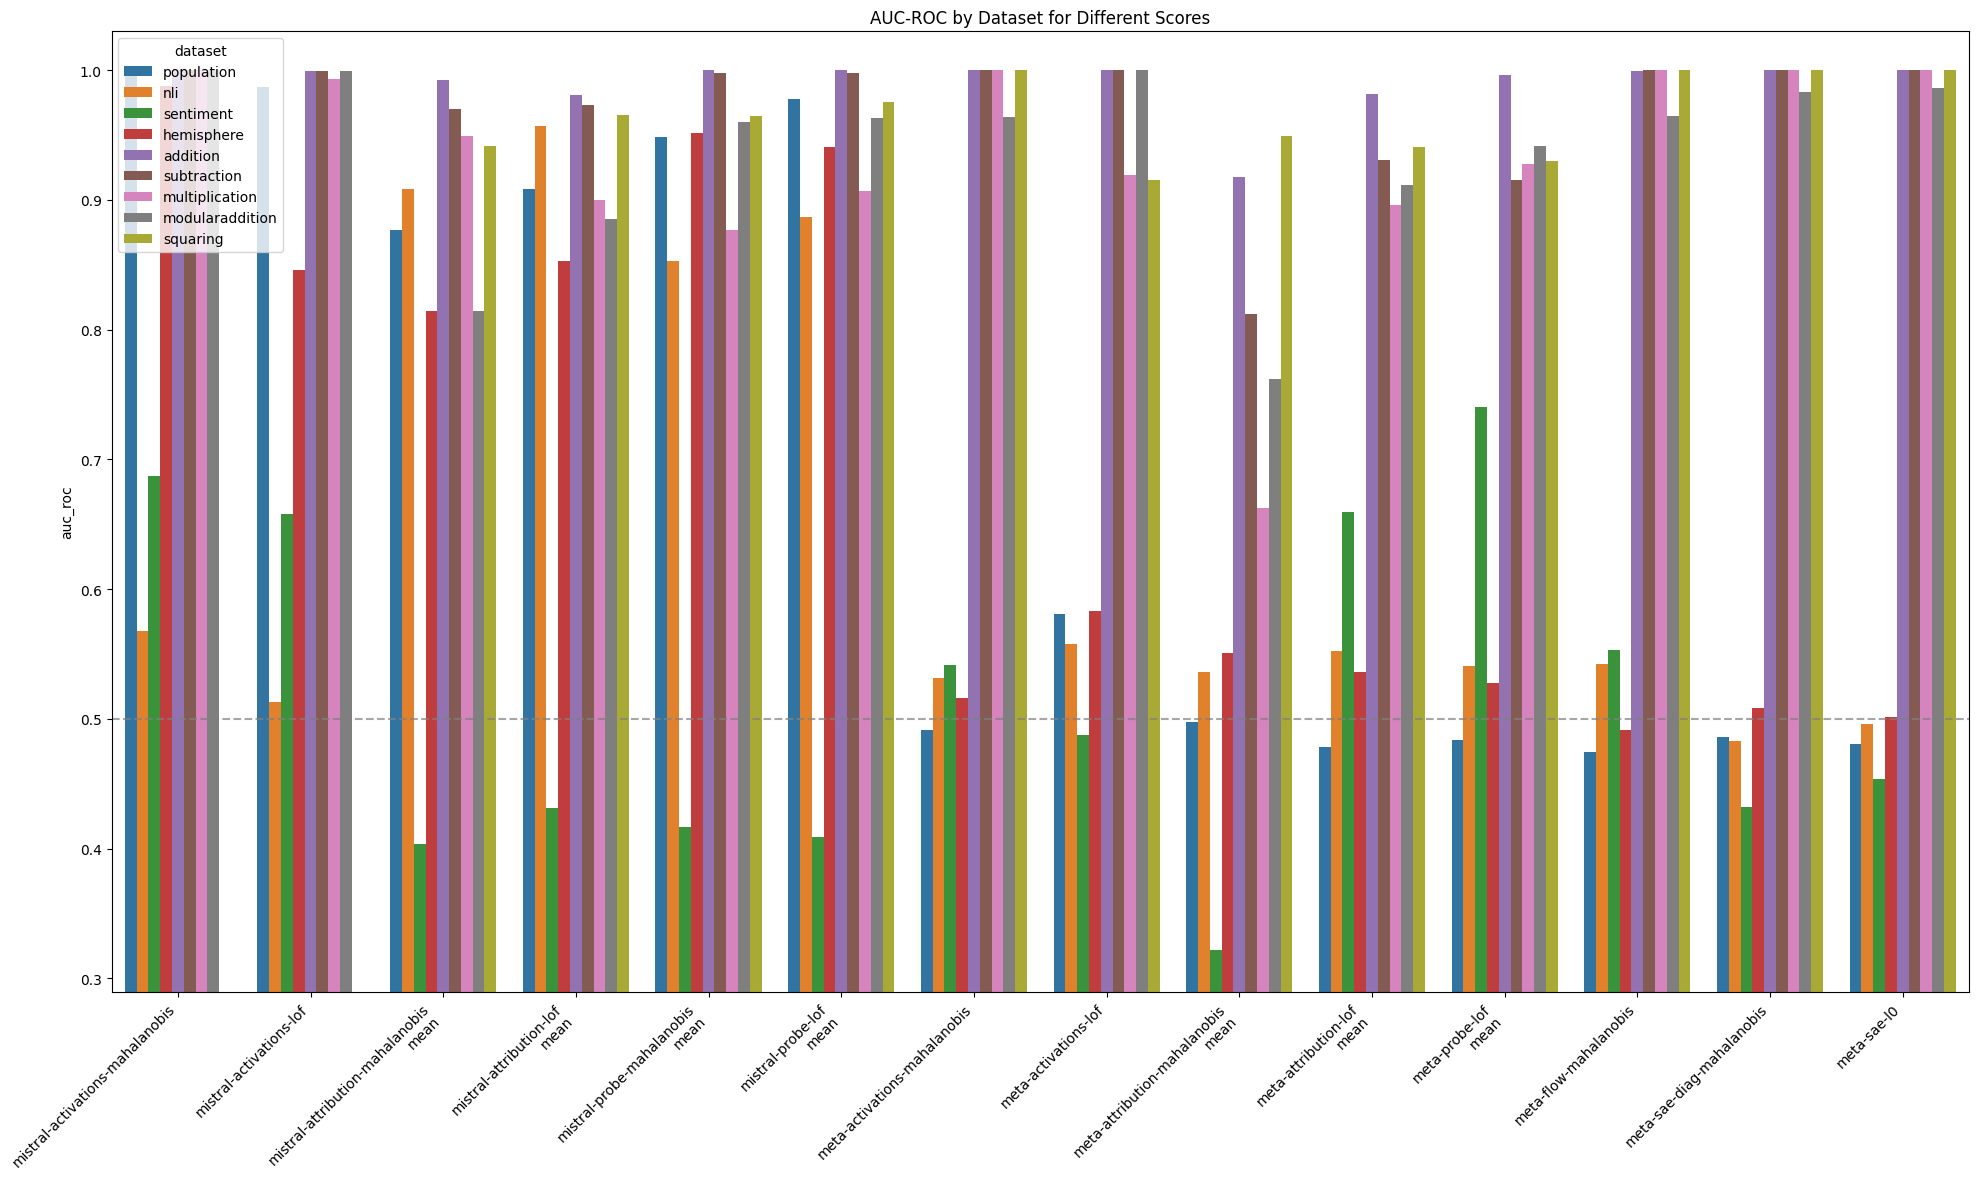
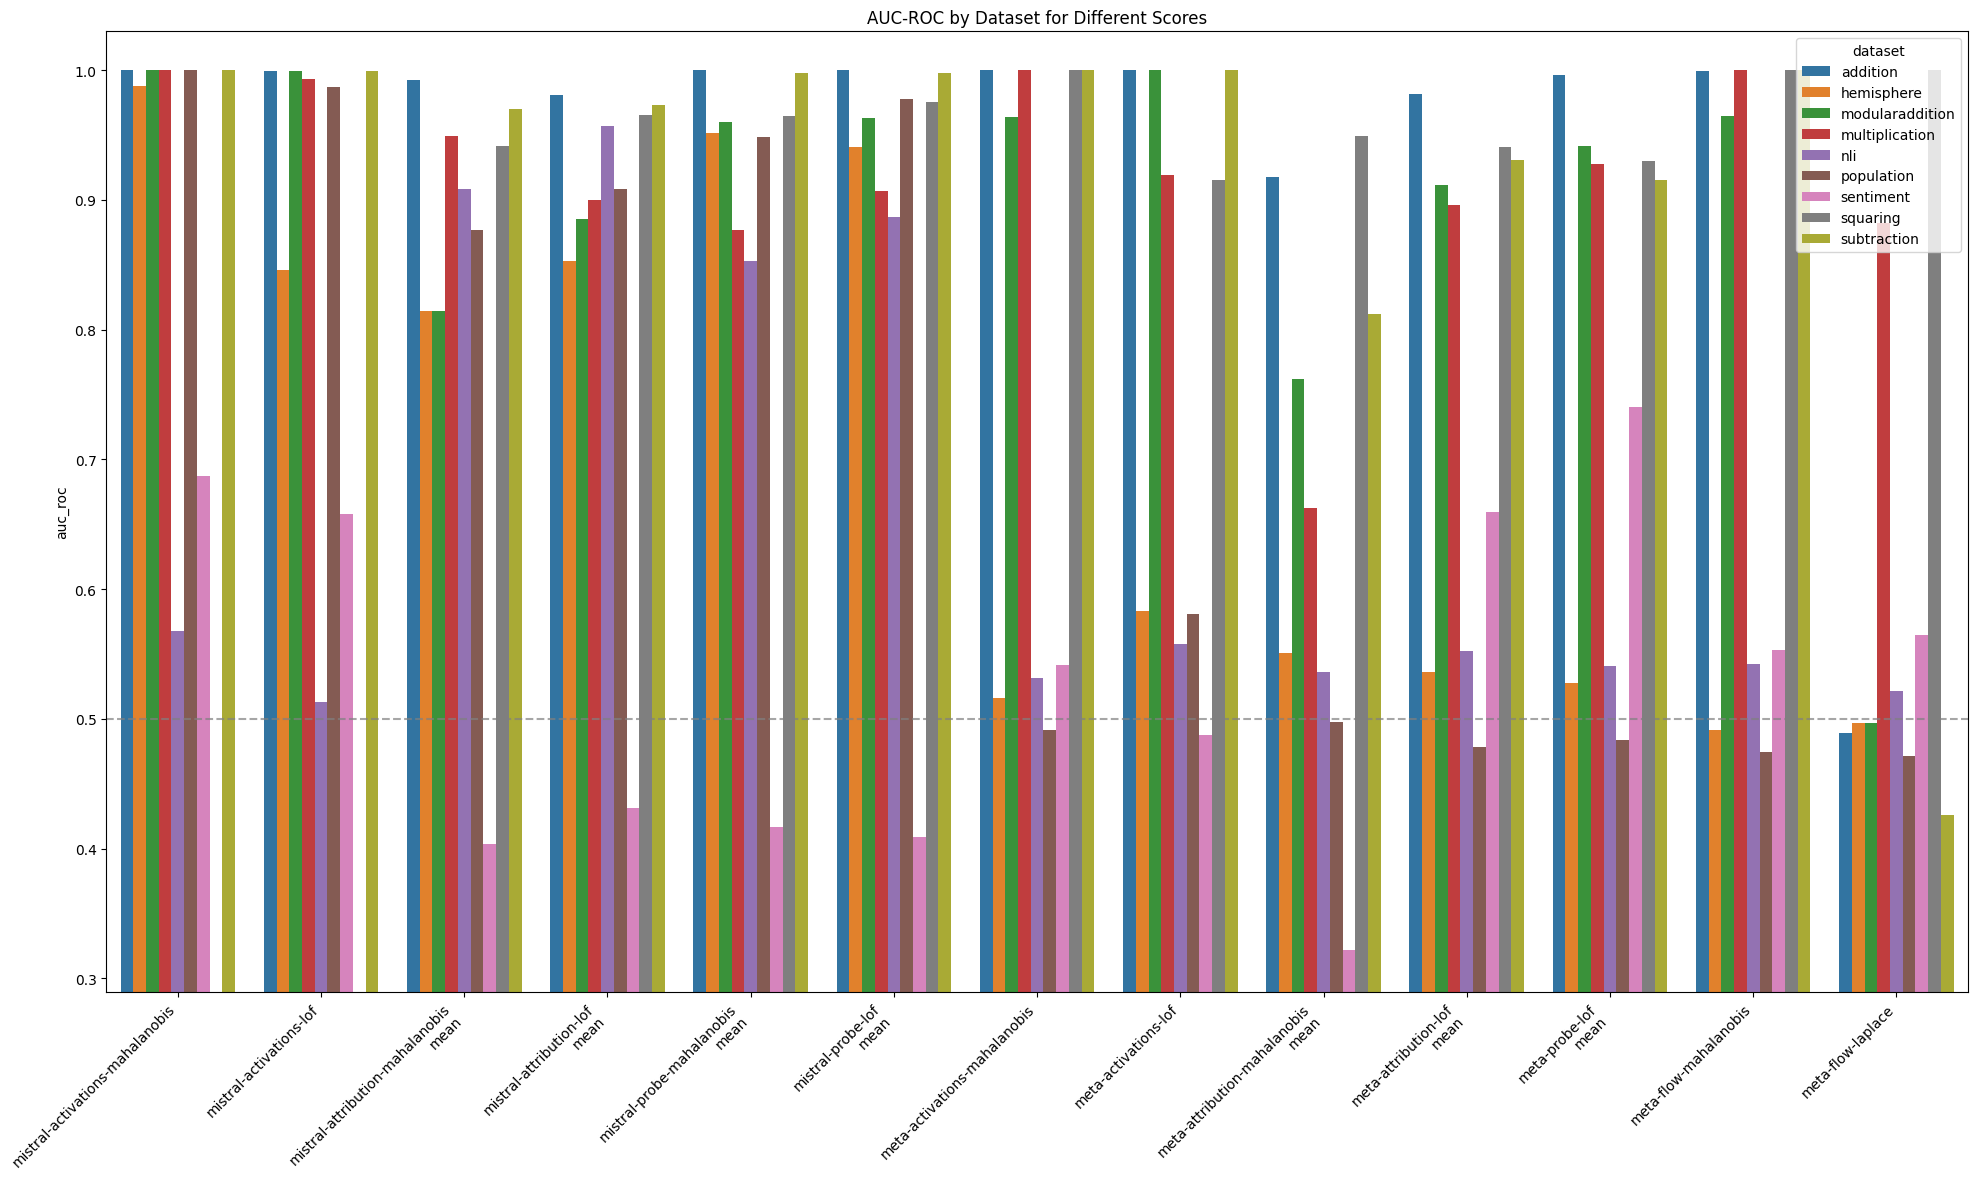
laplace score and separation explanation

diff --git a/content-blog/mad_research_update_2.md b/content-blog/mad_research_update_2.md
@@ -72,7 +72,10 @@ Figures 7 and 8 compare the average loss of both models against both the correct
 
 #### Comparing activation separation for Llama and Mistral
 
-A hypothesis arising from Figures 3 and 4 is that perhaps the lower separation in logits observed in Llama on non-arithmetic tasks corresponds to lower separation in the hidden states, which might explain the poor performance of anomaly detection methods on Llama. We found that the ratio of the distance between Alice's and Bob's centroids to the total variance of the hidden states explained MAD performance using the Mahalanobis distance very well (figure 9), and that Llama exhibited a lower separation than Mistral. We found only a very weak correlation between the hidden state separation and the same separation measure computed on output logits. We found a slightly stronger (but still weak) correlation between hidden state separation and the total variance of output logits (which, unlike Alice-Bob separation, could be estimated without access to quirky labels), and a similarly strong correlation between the hidden state separation and the Alice-Bob separation of the output logits.
+A hypothesis arising from Figures 3 and 4 is that perhaps the lower separation in logits observed in Llama on non-arithmetic tasks corresponds to lower separation in the hidden states, which might explain the poor performance of anomaly detection methods on Llama. We measured separation by taking the squared distance between class centroids and dividing by the total variance of the hidden states. Let $\mu^{\mathrm{Alice}}_i$ and $\mu^{\mathrm{Bob}}_i$ be the hidden state centroids at layer $i$ for all test datapoints in the Alice and Bob contexts respectively and $\Sigma^{\mathrm{Alice}, \mathrm{Bob}}_i$ be the covariance matrix of the hidden states for all test datapoints (both Alice and Bob contexts combined) at layer $i$. Then we compute the hidden state separation at layer $i$ as
+$$ S_i = \frac{(\mu^{\mathrm{Alice}}_{i} - \mu^{\mathrm{Bob}}_{i})^2}{\mathrm{Tr}(\Sigma(X_i^{\mathrm{Alice}, \mathrm{Bob}}))} $$
+
+We found that the hidden state separation explained MAD performance using the Mahalanobis distance very well (figure 9), and that Llama exhibited a lower separation than Mistral. We found only a very weak correlation between the hidden state separation and the same separation measure computed on output logits. We found a slightly stronger (but still weak) correlation between hidden state separation and the total variance of output logits (which, unlike Alice-Bob separation, could be estimated without access to quirky labels), and a similarly strong correlation between the hidden state separation and the Alice-Bob separation of the output logits.
 
 ![AUC ROC vs hidden state separation](/images/blog/mechanistic-anomaly-detection/aucroc_vs_variance_ration_by_layer.png)
 *Figure 9: AUC ROC vs hidden state separation for each model, dataset and layer. The hidden state separation is the ratio of the squared distance between the Alice and Bob centroids to total variance of the hidden states. There is a clear s-shaped relationship between the two, with three notable exceptions that achieve relatively high AUC ROC despite having a relatively low hidden state separation (those exceptions being particular layers of Mistral on the population, subtraction and addition datasets).*
@@ -90,7 +93,9 @@ While there is a relationship between Llama's less confident quirky behaviour an
 
 ### Anomaly detection with normalising flows
 
-We tested anomaly detection using a trained normalising flow. A normalising flow is a trainable function that learns an invertible mapping from a complex distribution to a simpler prior distribution (in this case, a Laplace distribution with independent dimensions). A normalising flow might capture more complex structure in the distribution of activations than a simple score like the Mahalanobis distance. Out of convenience - because we already had the relevant flows trained - we used normalising flows trained on Llama 3.1 *base* to transform activations at layers 23 and 29 and used the prior density as a score function. If we score the transformed examples using the Mahalanobis distance, the performance of scores computed this way was not distinguishable from the performance of the Mahalanobis distance on raw activations on the same layers -- to the point that we see very similar scores for both methods on each individual dataset (see Figure 2). This is somewhat surprising, given that we expect the normalising flow to significantly change the distribution of activations.
+We tested anomaly detection using a trained normalising flow. A normalising flow is a trainable function that learns an invertible mapping from a complex distribution to a simpler prior distribution (in this case, a Laplace distribution with mean 0 and variance 1 along each dimension, which are otherwise mutually independent). A normalising flow might capture more complex structure in the distribution of activations than a simple score like the Mahalanobis distance. Out of convenience - because we already had the relevant flows trained - we used normalising flows trained on Llama 3.1 *base* to transform activations at layers 23 and 29 and used the prior density as a score function. 
+
+We tested two score functions. First, we used the prior density of the normalising flow to score the transformed activation. Second, we used the Mahalanobis distance on the transformed activations. The Mahalanobis distance can be thought of as scoring according to a Laplace density with the mean and covariance estimated from the training data instead of fixed to the prior distribution. Scoring examples according to the prior yielded generally poor results, while scoring the transformed examples using the Mahalanobis distance yielded performance that was not distinguishable from the performance of the Mahalanobis distance on raw activations on the same layers -- to the point that we see very similar scores for both methods on each individual dataset (see Figure 2). The correspondence between Mahalanobis scoring on raw and transformed activations is somewhat surprising, given that we expect the normalising flow to significantly change the distribution of activations. Our results also suggest that either the fine tuning process or the quirky dataset prompts shifted the distribution of the transformed activations from the prior, such that scoring according to the prior was not a good measure of "anomalousness" of an example activation.
 
 Results are in Figures 1 and 2.
 
